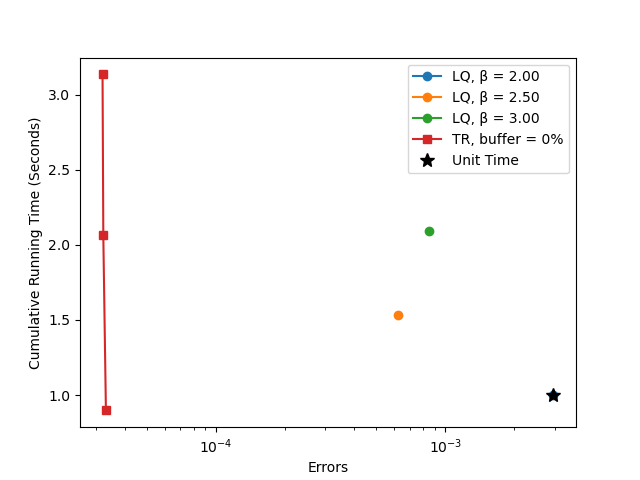
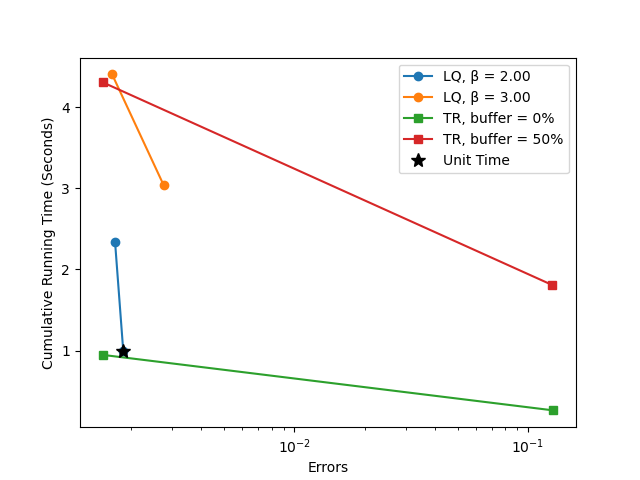
Parameters Change to run on server

diff --git a/Errors.py b/Errors.py
@@ -6,6 +6,8 @@ from scipy.stats import multivariate_normal
 import opolynd as op
 import families as f
 from indexing import total_degree_indices
+import numpy as np
+import matplotlib.pyplot as plt
 
 
 def ErrorValsOneTime(Meshes, PdfTraj, mesh2, surfaces, interpolate= True):
@@ -20,6 +22,12 @@ def ErrorValsOneTime(Meshes, PdfTraj, mesh2, surfaces, interpolate= True):
     # fig = plt.figure()
     # plt.scatter(Meshes, np.abs((PdfTraj-gridSolnOnLejas)), c='k', marker='.')
     # plt.show()
+
+    # fig = plt.figure()
+    # ax = plt.axes(projection='3d')
+    # ax.scatter(Meshes[:,0], Meshes[:,1],  np.abs((PdfTraj-gridSolnOnLejas)))
+    # plt.show()
+
     #compute errors
     l2w = np.sqrt(np.sum(np.abs((gridSolnOnLejas - PdfTraj))**2*gridSolnOnLejas)/np.sum(gridSolnOnLejas))
 

diff --git a/2DTiming_TRvsLQ_Loop.py b/2DTiming_TRvsLQ_Loop.py
@@ -11,10 +11,10 @@ import time
 # startup parameters
 dimension = 2
 radius = 2
-h = 0.1
-betaVals = [2, 3]
+h = 0.05
+betaVals = [2, 2.5]
 bufferVals = [0, 0.5]
-endTime = 20
+endTime = 10
 spacingLQVals = [0.45, 0.35]
 spacingTRVals = [0.25, 0.2]
 
